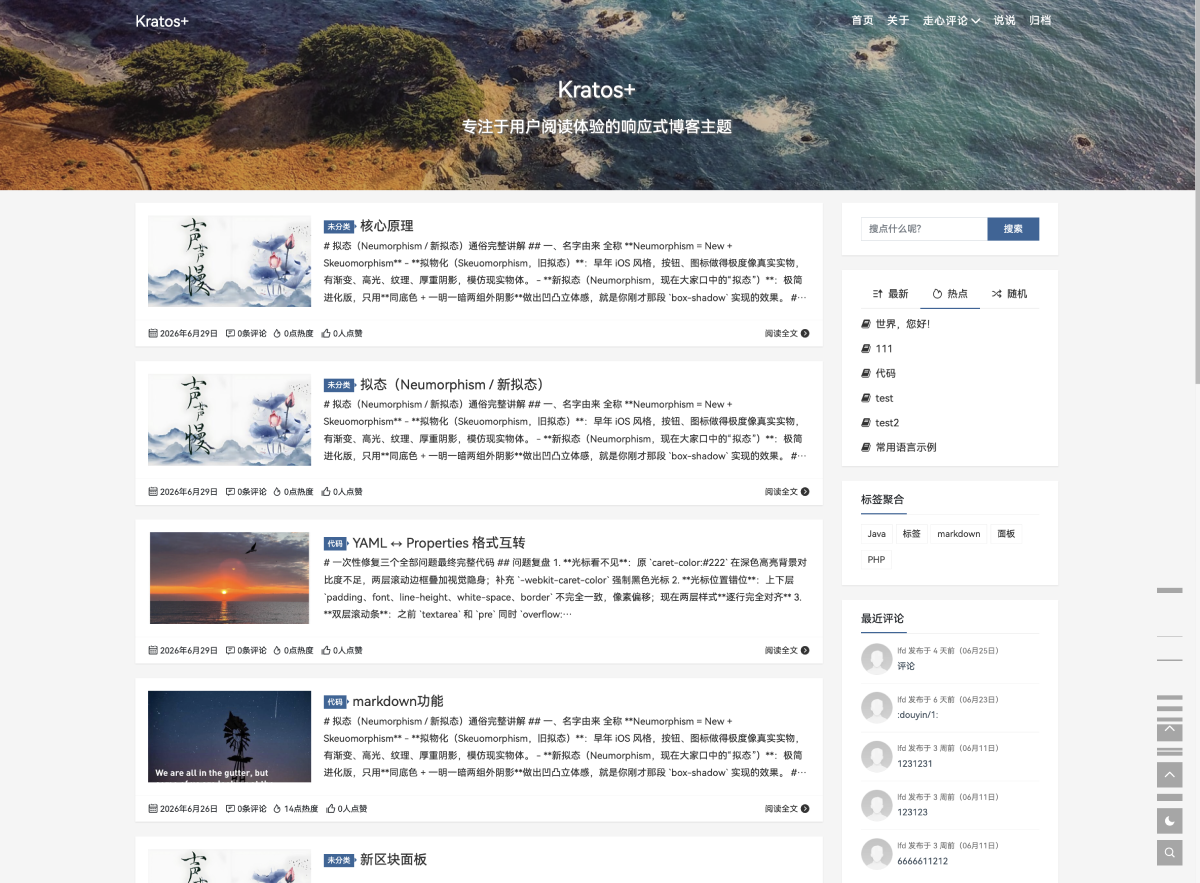
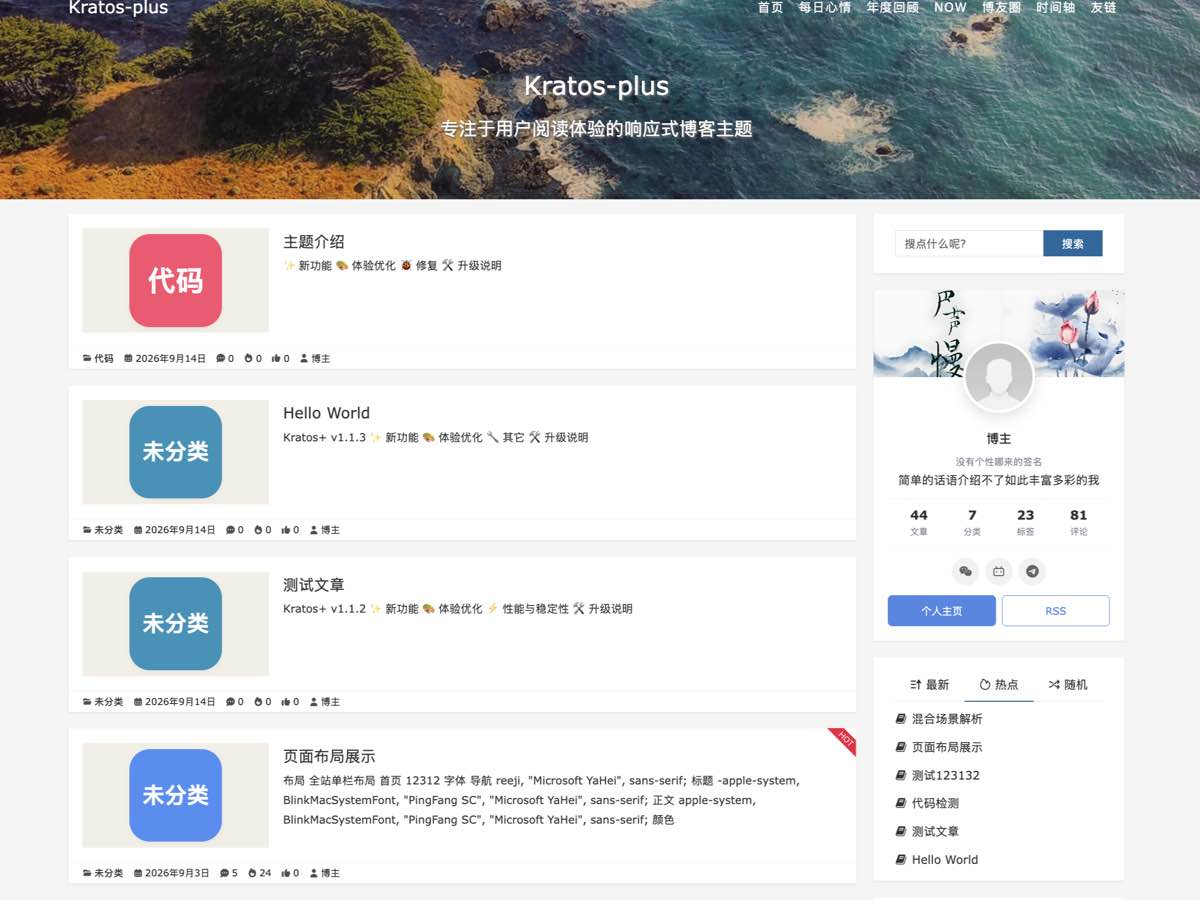
打包排除 document 目录并更新 README 截图

diff --git a/README.md b/README.md
@@ -1,7 +1,7 @@
 **English** | [简体中文](README.zh-CN.md)
 
 <p align="center">
-    <img src="assets/img/options/about.png">
+    <img src="document/about.png">
 </p>
 
 <p align="center">

diff --git a/README.zh-CN.md b/README.zh-CN.md
@@ -1,7 +1,7 @@
 [English](README.md) | **简体中文**
 
 <p align="center">
-    <img src="assets/img/options/about.png">
+    <img src="document/about.png">
 </p>
 
 <p align="center">
